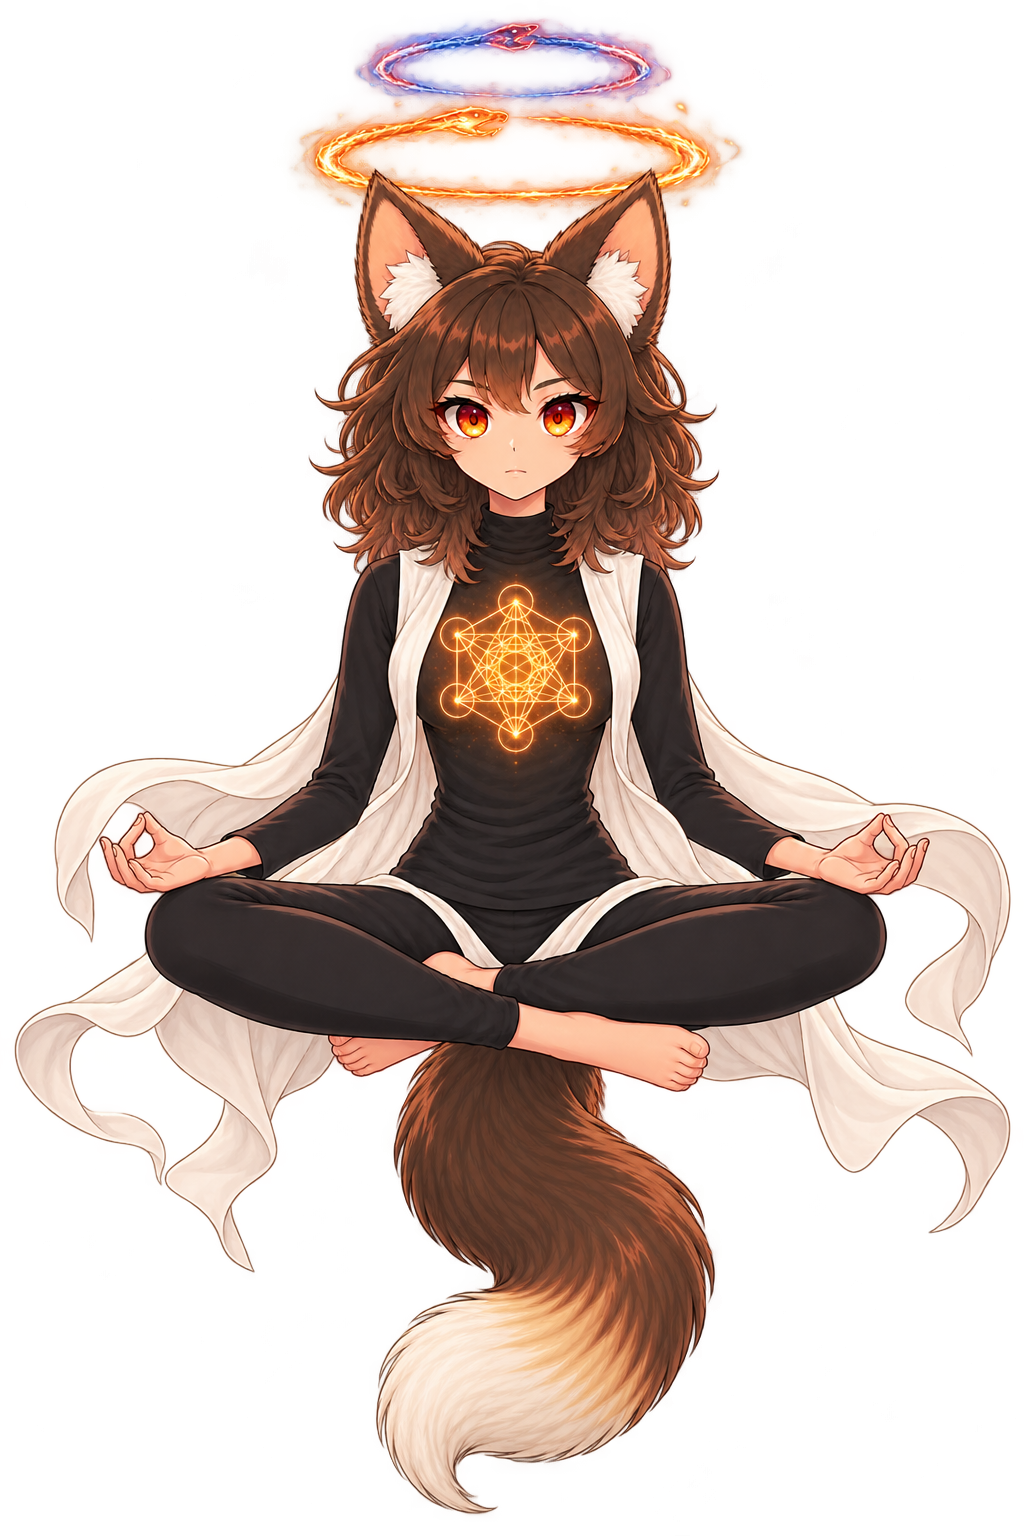
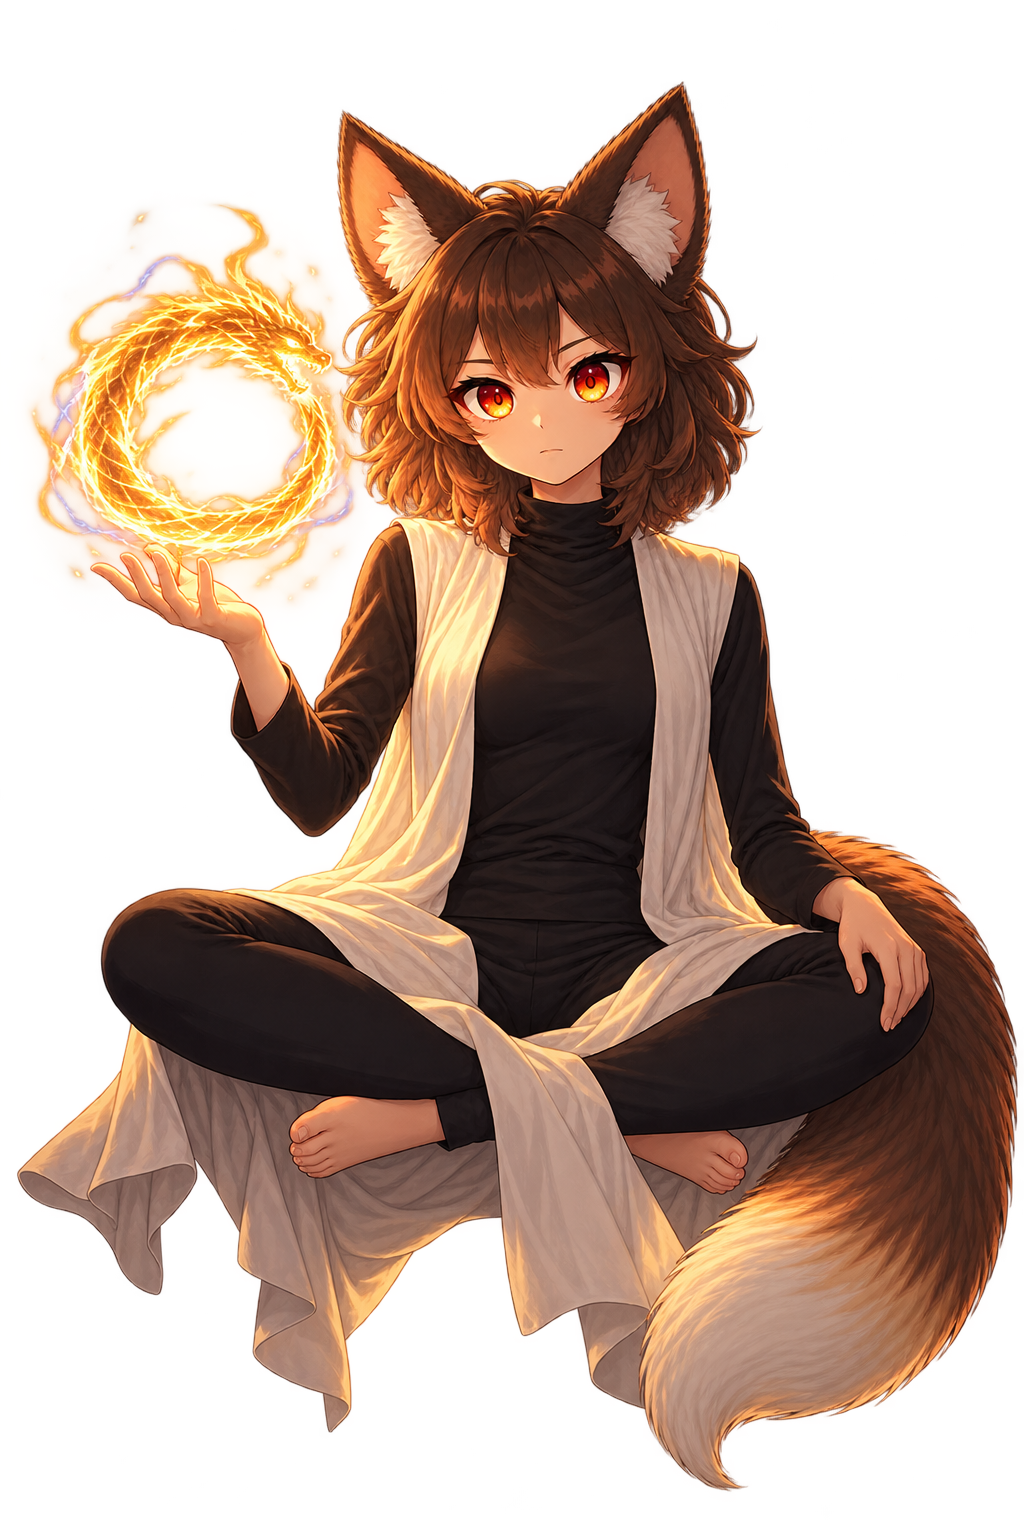
fix: alinhar Saṃvit às escadas e usar a arte escura da Home

diff --git a/src/app/pages/home/sanctuary-hero/sanctuary-hero.scss b/src/app/pages/home/sanctuary-hero/sanctuary-hero.scss
@@ -3,6 +3,8 @@
 }
 
 .sanctuary-hero {
+  --sanctuary-focus-x: 70%;
+
   isolation: isolate;
   position: relative;
 
@@ -33,6 +35,31 @@
   z-index: -2;
 
   pointer-events: none;
+}
+
+.hero-atmosphere::before {
+  content: '';
+
+  position: absolute;
+  top: 0;
+  left: var(--sanctuary-focus-x);
+
+  width: auto;
+  min-width: 110%;
+  height: 100%;
+  aspect-ratio: 1672 / 941;
+
+  background: url('/images/home/sanctuary-hero.png') center / cover no-repeat;
+
+  /* O centro das escadas está a 72,5% da largura da arte. */
+  transform: translateX(-72.5%);
+}
+
+.hero-atmosphere::after {
+  content: '';
+
+  position: absolute;
+  inset: 0;
 
   background:
     linear-gradient(
@@ -51,12 +78,7 @@
       rgba(6, 8, 11, 0.08) 70%,
       transparent 100%
     ),
-    linear-gradient(180deg, rgba(8, 10, 13, 0.12), rgba(8, 10, 13, 0.22)),
-    url('/images/home/sanctuary-hero.png');
-
-  background-repeat: no-repeat;
-  background-position: center right;
-  background-size: cover;
+    linear-gradient(180deg, rgba(8, 10, 13, 0.12), rgba(8, 10, 13, 0.22));
 }
 
 .sanctuary-hero::before {
@@ -327,6 +349,7 @@ h1 span {
   z-index: 2;
 
   display: block;
+  align-self: end;
 
   width: auto;
   height: min(100%, 32rem);
@@ -466,6 +489,8 @@ h1 span {
 
 @media (max-width: 1100px) {
   .sanctuary-hero {
+    --sanctuary-focus-x: 73%;
+
     grid-template-columns:
       minmax(0, 0.9fr)
       minmax(0, 1.1fr);
@@ -514,21 +539,13 @@ h1 span {
 }
 
 /* -----------------------
-   TABLET VERTICAL GRANDE
------------------------- */
-
-@media (min-width: 901px) and (max-width: 1100px) and (orientation: portrait) {
-  .hero-atmosphere {
-    background-position: 58% center;
-  }
-}
-
-/* -----------------------
    TABLET VERTICAL
 ------------------------ */
 
 @media (max-width: 900px) {
   .sanctuary-hero {
+    --sanctuary-focus-x: 76%;
+
     grid-template-columns:
       minmax(0, 1fr)
       minmax(0, 0.95fr);
@@ -565,10 +582,6 @@ h1 span {
   .samvit-aura {
     width: min(42vw, 23rem);
   }
-
-  .hero-atmosphere {
-    background-position: 60% center;
-  }
 }
 
 /* -----------------------
@@ -577,6 +590,8 @@ h1 span {
 
 @media (max-width: 700px) {
   .sanctuary-hero {
+    --sanctuary-focus-x: 50%;
+
     grid-template-columns: 1fr;
     grid-template-rows: auto auto;
 
@@ -649,8 +664,8 @@ h1 span {
     max-height: none;
   }
 
-  .hero-atmosphere {
-    background-position: 64% center;
+  .hero-atmosphere::before {
+    min-width: 182%;
   }
 
   .sanctuary-hero::after {
